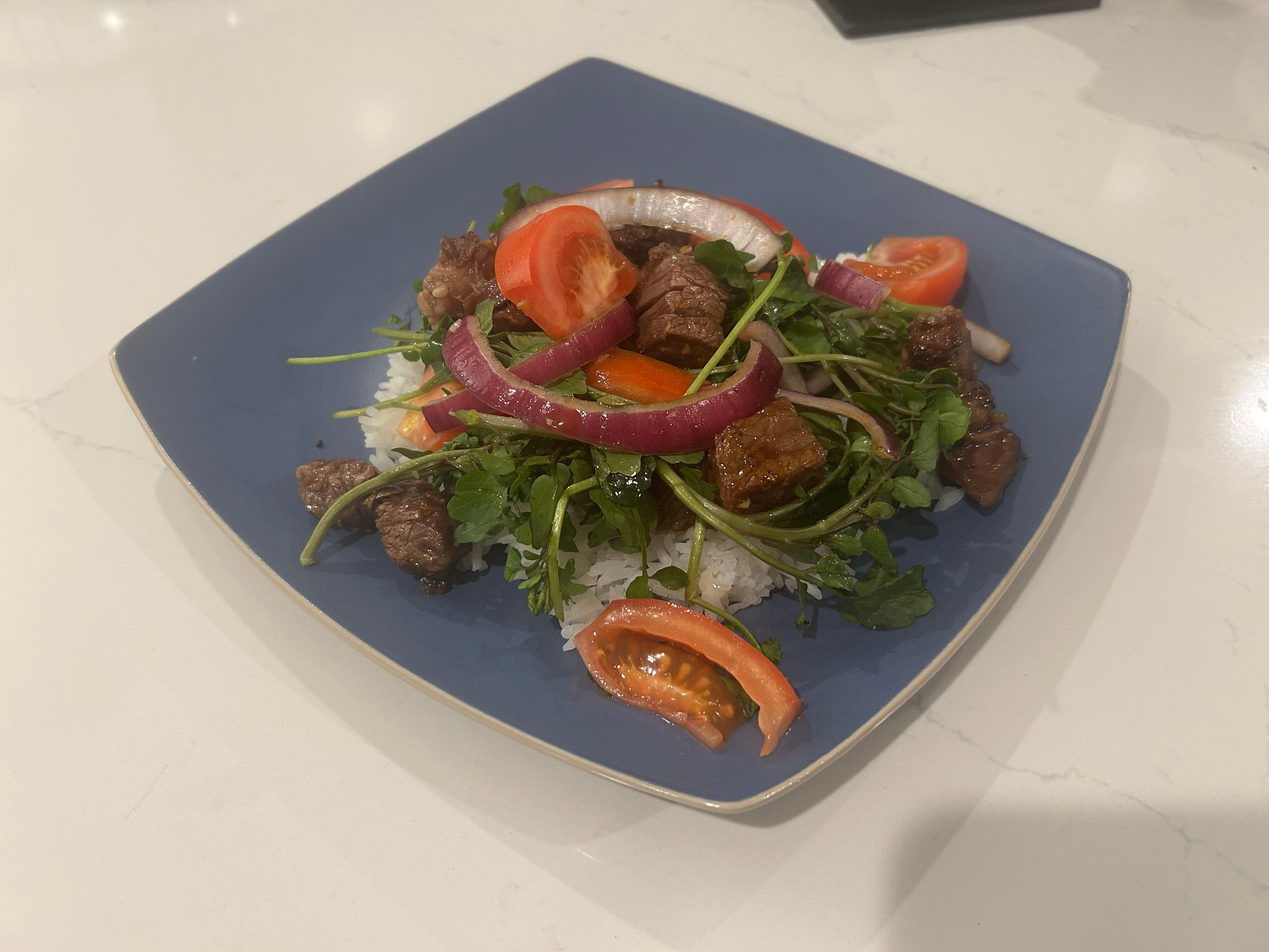
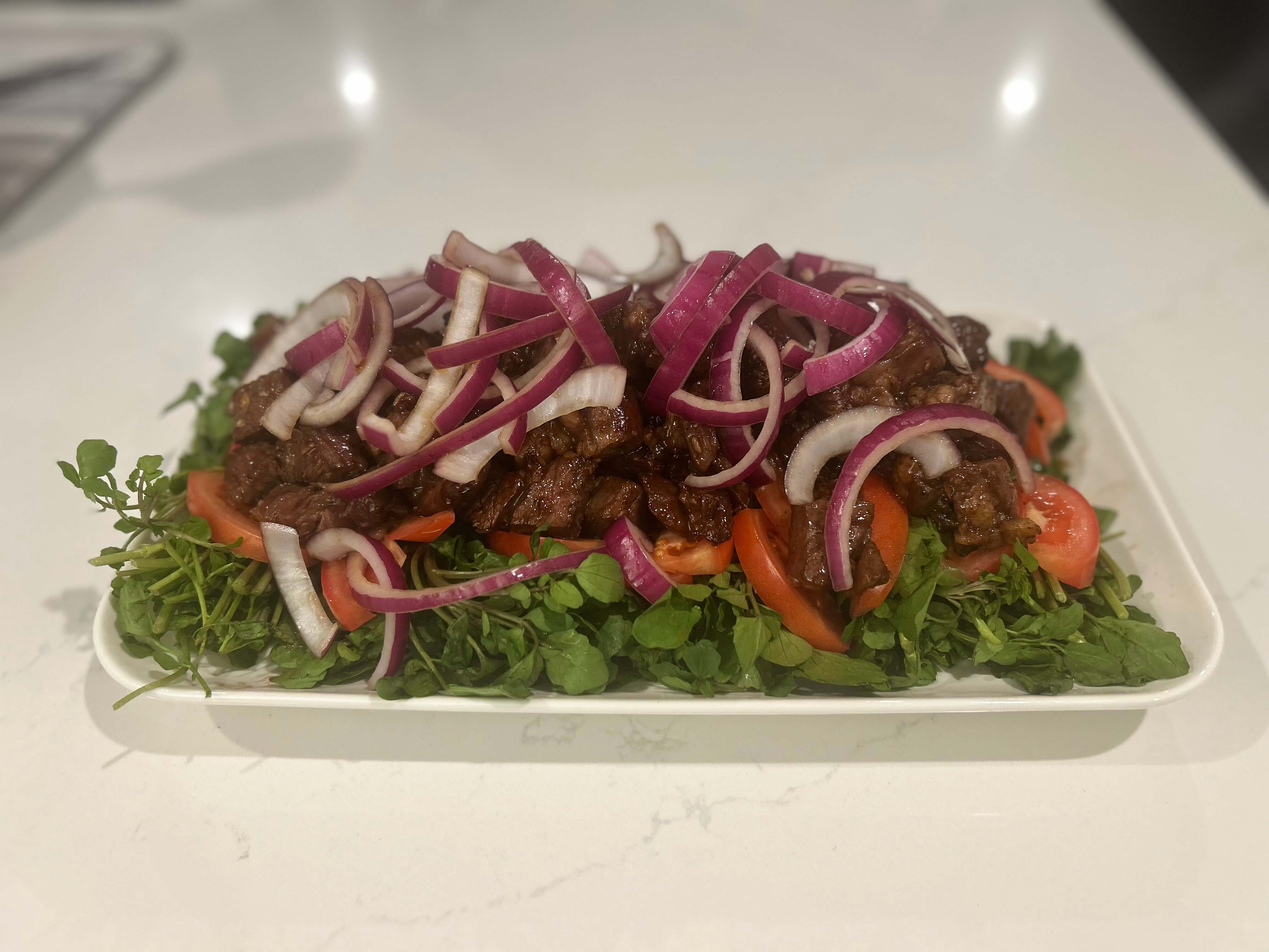
update some images for shaking beef

diff --git a/server/data/recipes/vietnamese-shaking-beef.js b/server/data/recipes/vietnamese-shaking-beef.js
@@ -5,6 +5,7 @@ const shakingBeef4 = '../assets/Products/shaking-beef-4.jpeg';
 const shakingBeef5 = '../assets/Products/shaking-beef-5.jpeg';
 const shakingBeef6 = '../assets/Products/shaking-beef-6.jpeg';
 const shakingBeef7 = '../assets/Products/shaking-beef-7.jpeg';
+const shakingBeef8 = '../assets/Products/shaking-beef-8.jpeg';
 
 const { CATEGORIES, GENRES, METHODS, PROTEIN, SECTIONS, TYPES, INGREDIENT_UNITS, YIELD_UNITS, TIME_UNITS, STORAGE_DURATION_UNIT, STORAGE_LOCATION, STORAGE_CONTAINER, REHEAT_METHODS } = require('./constants');
 const { BEEF_RIBEYE_STEAK, GARLIC, BROWN_SUGAR, LIGHT_SOY_SAUCE, FISH_SAUCE, BLACK_PEPPER, WHITE_SUGAR, WHITE_VINEGAR, WATER, RED_ONION, ROMA_TOMATO, WHITE_RICE, VEGETABLE_OIL, OYSTER_SAUCE, BABY_ARUGULA } = require('./ingredients');
@@ -19,7 +20,7 @@ const PLATE_UP_VEGETABLES = 'Plate Up Vegetables';
 module.exports = {
     cardName: 'Shaking Beef',
     name: 'Vietnamese Shaking Beef (Bo Luc Lac)',
-    img: shakingBeef6,
+    img: shakingBeef7,
     recipeAuthors: ['Matthew Johnson'],
     recipeFinder: 'Kevin Ung',
     available: true,
@@ -77,10 +78,10 @@ module.exports = {
         { step: 'Over high heat, add oil to a wok. Tilt to spread the oil so it coats the wok.', section: SECTIONS.COOK_BEEF },
         { step: 'Add beef in batches. Sear until all sides are charred and medium rare (about 3 to 5 minutes).', section: SECTIONS.COOK_BEEF, img: shakingBeef4 },
         { step: 'Remove beef. Continue with as many batches as needed.', section: SECTIONS.COOK_BEEF },
-        { step: 'Arrange beef on top of the bed of arugula and tomatoes.', section: SECTIONS.ASSEMBLE },
+        { step: 'Arrange beef on top of the bed of arugula and tomatoes.', section: SECTIONS.ASSEMBLE, img: shakingBeef5 },
         { step: 'Optionally cook the red onion sauce over medium heat for 1 to 2 minutes (by itself or with the beef).', section: SECTIONS.ASSEMBLE },
-        { step: 'Top with the red onion sauce.', section: SECTIONS.ASSEMBLE, img: shakingBeef5 },
-        { step: 'Enjoy this Vietnamese dish with rice!', section: SECTIONS.SERVE, img: shakingBeef7 },
+        { step: 'Top with the red onion sauce.', section: SECTIONS.ASSEMBLE, img: shakingBeef6 },
+        { step: 'Enjoy this Vietnamese dish with rice!', section: SECTIONS.SERVE, img: shakingBeef8 },
     ],
     notes: [
         { note: 'The original recipe calls for watercress, but it had too strong of a peppery flavor and it overpowered the dish. Baby arugula is a great substitute that still gives a peppery flavor but is more mild. Plus baby arugula is easier to find.' },
